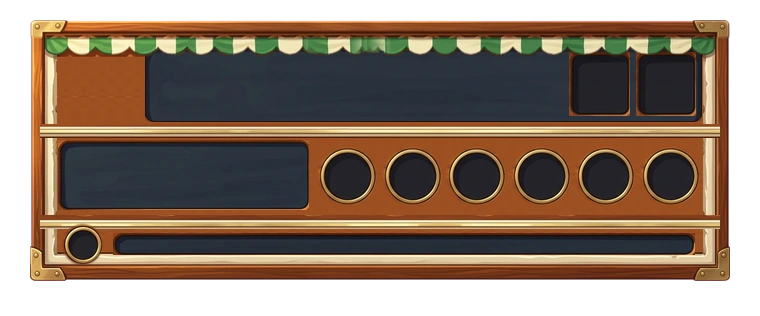
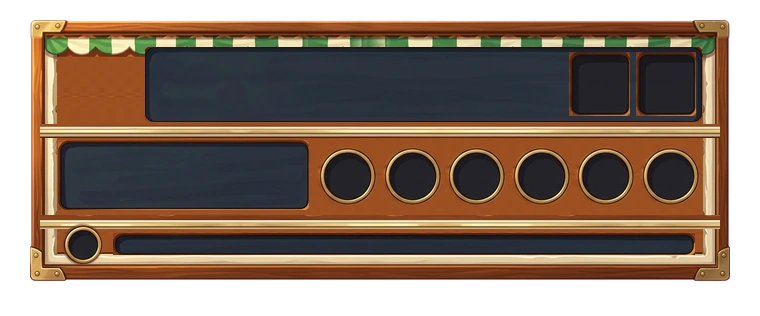
1.b Maidan: canopy no longer drapes over the top panel (was clipping the 34)
Claude-Session: https://claude.ai/code/session_01EnXvJ8XPeyqCUAaLS3ewZZ

Changed region(s): [[0.1816, 0.1424, 0.9382, 0.1709]]

diff --git a/art/ui/hud_lock/build_locked_boards.py b/art/ui/hud_lock/build_locked_boards.py
@@ -48,7 +48,7 @@ def frac_hud():
 
 # ---- per-board source measurements (original px, 760 wide). slots = the board's own HUD fractions ----
 B = {
- 'maidan3': dict(k=.75, Ri=(36, 49, 724, 254), mat=(130, 193, 214, 226), overBand=(28, 62, 34, 726), deco=[('rails', [(111, 125, 300, 500), (194, 208, 300, 500)], (40, 720))],
+ 'maidan3': dict(k=.75, Ri=(36, 49, 724, 254), mat=(130, 193, 214, 226), deco=[('rails', [(111, 125, 300, 500), (194, 208, 300, 500)], (40, 720))],
    chase=[0.1829, 0.0711, 0.7566, 0.1395], wk=[0.7711, 0.0711, 0.8395, 0.1395], score=[0.0671, 0.1711, 0.2763, 0.2539],
    sock=[0.3434, 0.2132, 0.0355], badge=[0.0526, 0.0789, 0.0592, 0.0855], eIcon=[0.1171, 0.3053, 0.0197], eBar=[0.1803, 0.2842, 0.925, 0.3237]),
  'maidan2': dict(k=.6, Ri=(38, 56, 722, 300), mat=(141, 150, 150, 560), amp=.7, deco=[('rails', [(148, 162, 200, 420), (239, 254, 200, 420)], (31, 729))],
